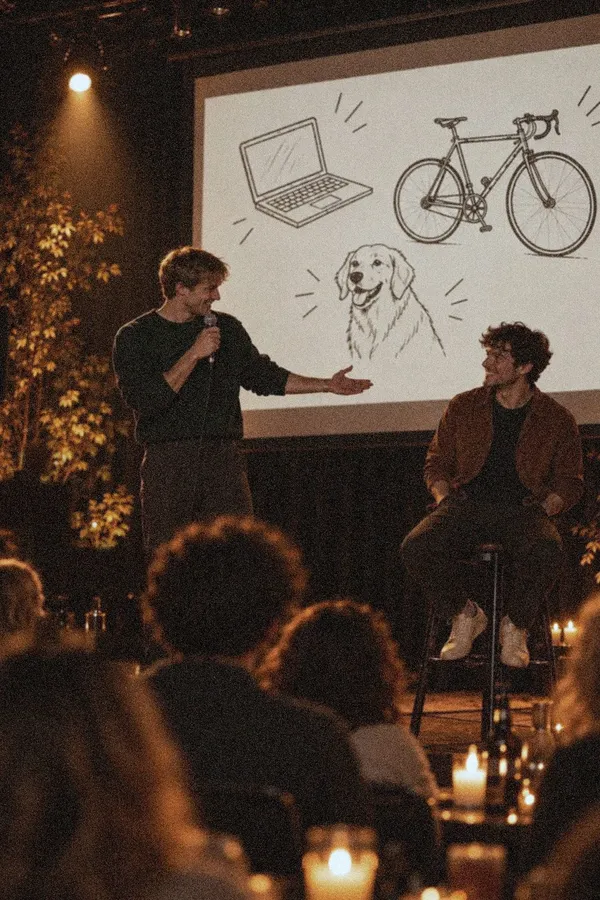
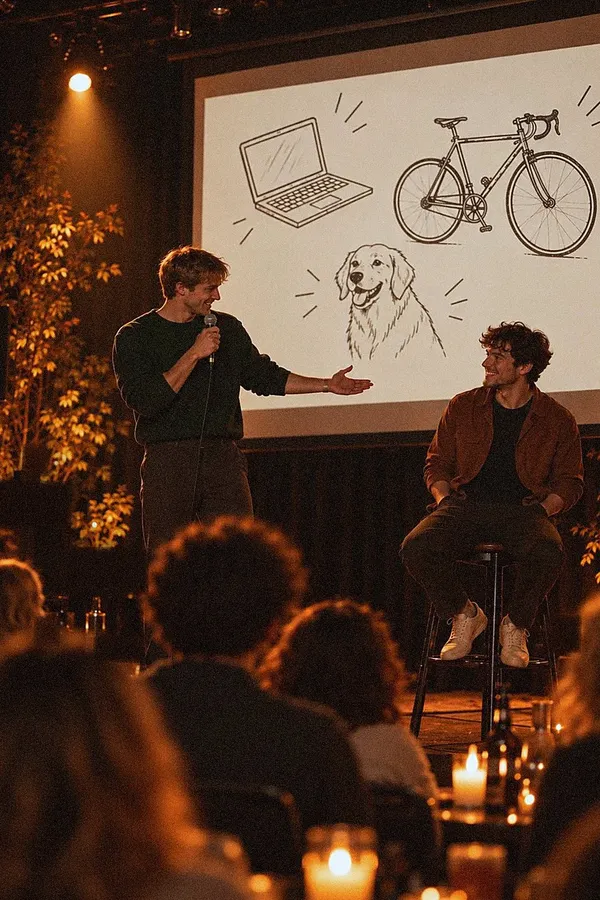
Fotka pódia: bez sviečok pri nohách, ostrejšia, viac farby

diff --git a/index.html b/index.html
@@ -189,7 +189,7 @@
             </div>
           </div>
           <div class="hero-photo podium-photo">
-            <img class="hero-img" loading="lazy" src="img/podium-prezentacia.webp?v=4" srcset="img/podium-prezentacia-600.webp?v=4 600w, img/podium-prezentacia-800.webp?v=4 800w, img/podium-prezentacia.webp?v=4 1000w" sizes="(max-width: 760px) 100vw, 40vw" alt="Kamarát na pódiu s mikrofónom predstavuje svojho single kamaráta, za nimi plátno s obrázkami jeho záľub" width="1000" height="1500">
+            <img class="hero-img" loading="lazy" src="img/podium-prezentacia.webp?v=5" srcset="img/podium-prezentacia-600.webp?v=5 600w, img/podium-prezentacia-800.webp?v=5 800w, img/podium-prezentacia.webp?v=5 1000w" sizes="(max-width: 760px) 100vw, 40vw" alt="Kamarát na pódiu s mikrofónom predstavuje svojho single kamaráta, za nimi plátno s obrázkami jeho záľub" width="1000" height="1500">
             <ul class="ifacts ifacts-ticket ifacts-lime ifacts-2x2">
               <li><p class="label">Na pódiu</p><strong>5 žien + 5 mužov</strong></li>
               <li><p class="label">Prezentácia</p><strong>max. 5 minút</strong></li>

diff --git a/single-show.html b/single-show.html
@@ -168,7 +168,7 @@
             </div>
           </div>
           <div class="hero-photo podium-photo">
-            <img class="hero-img" loading="lazy" src="img/podium-prezentacia.webp?v=4" srcset="img/podium-prezentacia-600.webp?v=4 600w, img/podium-prezentacia-800.webp?v=4 800w, img/podium-prezentacia.webp?v=4 1000w" sizes="(max-width: 760px) 100vw, 40vw" alt="Kamarát na pódiu s mikrofónom predstavuje svojho single kamaráta, za nimi plátno s obrázkami jeho záľub" width="1000" height="1500">
+            <img class="hero-img" loading="lazy" src="img/podium-prezentacia.webp?v=5" srcset="img/podium-prezentacia-600.webp?v=5 600w, img/podium-prezentacia-800.webp?v=5 800w, img/podium-prezentacia.webp?v=5 1000w" sizes="(max-width: 760px) 100vw, 40vw" alt="Kamarát na pódiu s mikrofónom predstavuje svojho single kamaráta, za nimi plátno s obrázkami jeho záľub" width="1000" height="1500">
             <ul class="ifacts ifacts-ticket ifacts-lime ifacts-2x2">
               <li><p class="label">Na pódiu</p><strong>5 žien + 5 mužov</strong></li>
               <li><p class="label">Prezentácia</p><strong>max. 5 minút</strong></li>
